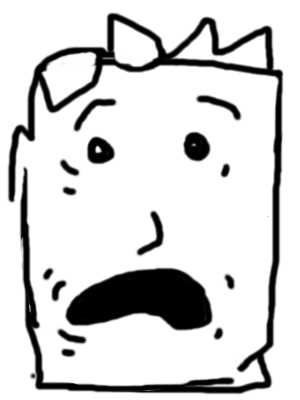
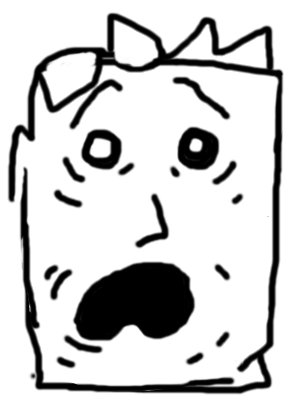
even more portraits

diff --git a/Assets/Hero/Hero.cs b/Assets/Hero/Hero.cs
@@ -116,6 +116,10 @@ public class Hero : MonoBehaviour
 				portraitTexture = (Texture)Resources.Load("Portrait" + ((int)(normalisedFear * (numberOfPortraits-1))).ToString("D2"));
 				break;
 			
+			case Dungeon.State.ADVANCING:
+				portraitTexture = (Texture)Resources.Load("PortraitAdvancing");
+				break;
+			
 			case Dungeon.State.DEFEAT:
 				portraitTexture = (Texture)Resources.Load("PortraitDead");
 				break;

diff --git a/Assets/Hero/HeroAnimation.cs b/Assets/Hero/HeroAnimation.cs
@@ -17,15 +17,9 @@ public class HeroAnimation : MonoBehaviour
 		var moving = false;
 		
 		if(Dungeon.instance.state == Dungeon.State.ADVANCING) 
-		{
-			// TODO face right
 			moving = true;
-		}
 		else if (Dungeon.instance.state == Dungeon.State.FLEEING) 
-		{
-			// TODO face left
 			moving = true;
-		}
 			
 		if(moving || verticalSpeed < maxVerticalSpeed)
 		{
